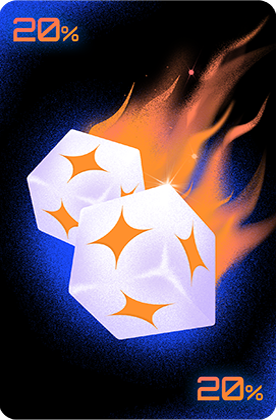
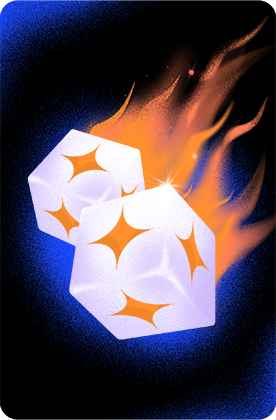
JON-957 / -963 / -974 (#582)
* fix card images

* fix grid image

* fix grid repetition

* fix hold on bg mobile

diff --git a/src/components/BackgroundVideo.tsx b/src/components/BackgroundVideo.tsx
@@ -1,4 +1,4 @@
-import { useRef, useEffect, useState } from "react";
+import { useEffect, useRef, useState } from "react";
 import { getVideoFromCache } from "../utils/cacheUtils";
 
 interface BackgroundVideoProps {
@@ -54,6 +54,7 @@ const BackgroundVideo = ({ type }: BackgroundVideoProps) => {
         width: "100%",
         height: "100%",
         objectFit: "cover",
+        pointerEvents: "none",
       }}
     />
   );

diff --git a/src/pages/Game/PreselectedCardsSection.tsx b/src/pages/Game/PreselectedCardsSection.tsx
@@ -74,6 +74,8 @@ export const PreselectedCardsSection = ({
             height="188px"
             background={"url(grid.png)"}
             width="90%"
+            backgroundRepeat="space"
+            backgroundSize="52px auto"
           >
             {preSelectedCards.map((idx) => {
               const card = hand.find((c) => c.idx === idx);
